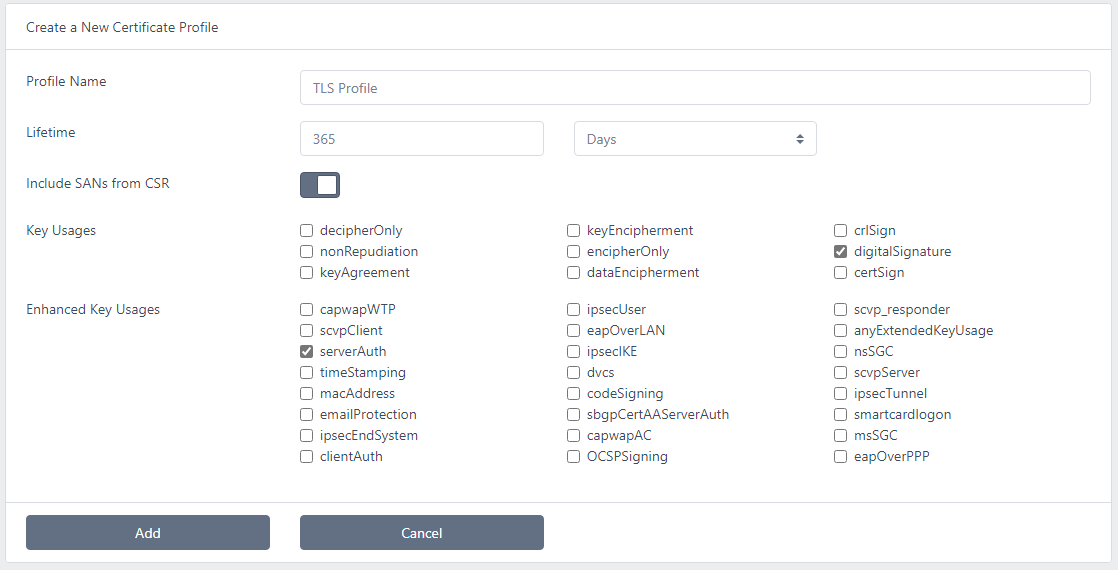
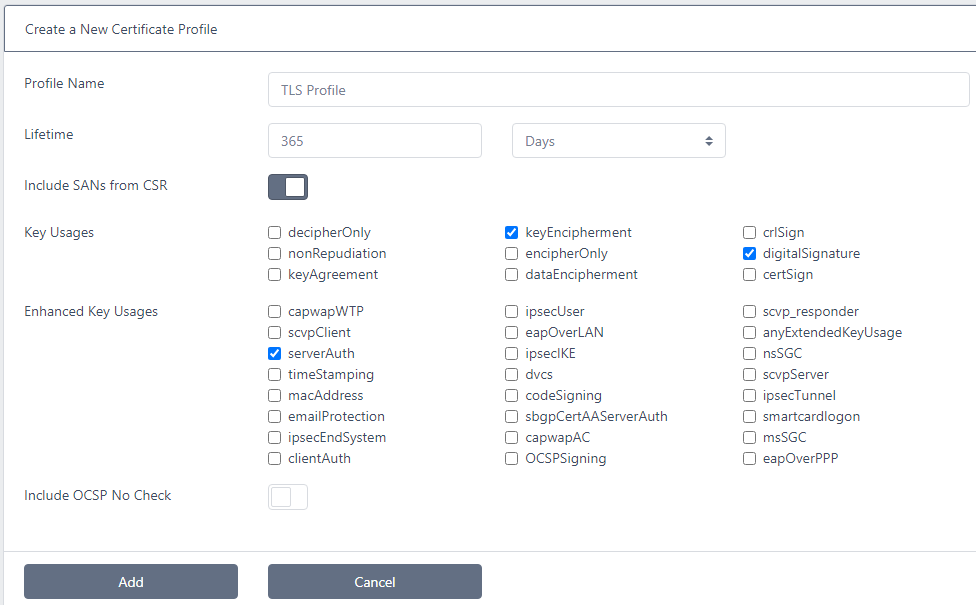
Updated Local CA Issuer

diff --git a/certdog/create_local_certificate_issuer.md b/certdog/create_local_certificate_issuer.md
@@ -8,7 +8,7 @@ nav_order: 6
 
 
 
-A Local Certificate Issuer enables you to issue certificates from an certdog controlled CA
+A Local Certificate Issuer enables you to issue certificates from a certdog controlled CA
 
 A Certificate Issuer combines a CA (Certificate Authority) and Certificate Profile  
 
@@ -17,73 +17,126 @@ A Certificate Issuer combines a CA (Certificate Authority) and Certificate Profi
 ### 1. Create a Local CA Configuration  
    Select **Local CA** > **Configuration** from the menu
 
-<img src=".\images\new_localca_issuer_config.png" alt="image-20210108165700507" style="zoom:67%;" />
+<img src=".\images\new_ms_issuer.png" alt="Certificate Issuers" style="zoom:67%;" />
 
    Click **Add New CA**
 
-<img src=".\images\new_localca_issuer_config2.png" alt="image-20210108165822066" style="zoom:70%;" />
+<img src=".\images\new-local-ca.png" alt="image-20210620112307746" style="zoom: 67%;" />
 
-   Enter details for *CA Name* and *Subject DN*.  Alter the algorithms and key sizes if required.  Click **Create**  
+Complete the following details:  
 
-   
+<u>Main Certificate Authority Details</u>  
+
+* CA Name: Enter a name for this CA
+
+* Type: You can create a Root CA (self-signed) or an Intermediate CA (if a Root CA has been configured). A complete hierarchy of CAs can be configured with no limit to the chain length  
+
+* Issuer: If you select Intermediate CA in the option above, a list of available parent CAs (issuers) will be displayed. Select the CA to be the parent/issuer CA
+
+* Subject DN: Enter the CA Distinguished Name
+
+* Lifetime: Specify the life of this CA. Note that if an Intermediate CA's lifetime is set to exceed that of the issuer, it will be automatically reduced to be equal to the issuers. I.e. you cannot issue an Intermediate CA with a longer life than its parent
+
+* Algorithm: Select RSA or ECDSA as the algorithm used to generate the CA keys
+
+* Key Size: If RSA is selected, set the CA key size
+
+* Curve: If ECDSA is selected, set the name for the elliptic curve
+
+* Hash Algorithm: Set the CA's hash algorithm
+
+Note that once the CA is configured the above options are fixed and cannot then be changed. You may delete and re-issue a CA but you cannot change its lifetime, algorithm etc.   
+
+<u>Extensions</u>  
+
+* CRL Distribution Points: Enter a URL (or list of URLs separated by commas). These locations will be included in the CRL Distribution Points extension of all certificates issued by this CA and relate to where the CRL issued by this CA can be obtained
+* AIA OCSP Locations: Enter a URL (or list of OCSP URLs separated by commas). These locations will be included in the AIA (Authority Information Access) extension of all certificates issued by this CA and relate to where the certificate status can be obtained via OCSP
+* AIA Issuer Cert Locations: Enter a URL (or list of URLs separated by commas). These locations will be included in the AIA (Authority Information Access) extension of all certificates issued by this CA and relate to where the CA certificate can be obtained
+
+All of these options can be edited later  
+
+<u>CRL Generation</u>  
+
+* Generate CRLs: If you want this CA to generate CRLs, enable this option
+
+* CRL Lifetime: This is the lifetime of the CRL i.e. the period between the Effective date and Next update values in the CRL
+
+* CRL Generation Period: This is how often you want the CRL to be generated. It must be less than the CRL Lifetime. For example, if the lifetime were set to 2 days, you may set this to 1 day so there is always a 1 day overlap
+
+* CRL Filename: This is the location the CRL file will be placed when generated
+
+  
+
+Click **Create**   
+
+The Extensions and CRL Generation options can be edited later if required  
+
+  
+
+**Notes on the CRL Filename and CRL Distribution Points**  
+
+A CRL must be available at the location(s) specified in the CRL Distribution points. You must therefore ensure that the CRL generated at the location specified by CRL Filename is either the location the CDP references or is  copied to this location  
+
+One option is to use the certdog web server to host this CRL. To do this perform the following steps:  
+
+1. On the file-system navigate to where certdog is installed e.g. ``c:\certdog``
+
+2. Create a CRL folder within the webapps of the tomcat instance (that hosts certdog). I.e. create the following folder:
+
+   ``c:\certdog\tomcat\webapps\crl``
+
+3. Set the CRL Distribution point to be: ``http://[your URL]/crl/ca.crl`` e.g. ``http://certdog.net/crl/ca.crl``
+
+4. Set the CRL Filename to be: ``c:\certdog\tomcat\webapps\crl\ca.crl``
+
+This will result in the CRL being created at ``c:\certdog\tomcat\webapps\crl\ca.crl`` which will then be available at this URL: ``http://certdog.net/crl/ca.crl``
+
+     
 
 ### 2. Create a Certificate Profile
 
-   Select **Local CA** > **Profiles** from the menu
+   Select **Local CA** > **Profiles** from the menu and click **Add New Profile**
 
-<img src=".\images\new_localca_profiles.png" alt="image-20210108170056632" style="zoom: 67%;" />
+<img src=".\images\new_localca_profiles2.png" alt="image-20210620123244374" style="zoom: 67%;" />
 
-   Click **Add New Profile**
+* And enter details for **Profile Name**
 
-<img src=".\images\new_localca_profiles2.png" alt="image-20210108170237149" style="zoom:67%;" />
+* Select the **lifetime**.  This will be the lifetime of the issued certificate
 
-   And enter details for *Profile Name*  
+* If you wish SANs (Subject Alternative Names) that are provided in the CSR (Certificate Signing Request) to be included in any issued certificates, ensure the **Include SANs from CSR** option is checked  
 
-   Select the lifetime.  This will be the lifetime of the issued certificate
+* Select the **Key Usages** - these will be applied to the issued certificate
 
-   If you wish SANs (Subject Alternative Names) that are provided in the CSR (Certificate Signing Request) to be included in any issued certificates, ensure this option is checked  
+* Select the **Enhanced Key Usages** - these will be applied to the issued certificate  
+* If this is to be an OCSP certificate and you do not wish the status of this certificate to be checked. Set the **Include OCSP No Check** option
 
-   Select the Key Usages - these will be applied to the issued certificate
+See [RFC5280](https://tools.ietf.org/html/rfc5280) for more details on key usages  
 
-   Select the Enhanced Key Usages - these will be applied to the issued certificate  
-
-   See [RFC5280](https://tools.ietf.org/html/rfc5280) for more details on key usages
-
-   Click **Add**  
+Click **Add**  
 
    
 
 ### 3. Create a Certificate Issuer
 
-   Select **Certificate Issuers** from the menu
+Select **Certificate Issuers** from the menu
 
-<img src=".\images\new_localca_issuer.png" alt="image-20210108170849399" style="zoom:67%;" />
+<img src=".\images\new_ms_issuer.png" alt="image-20210108170849399" style="zoom:67%;" />
 
-   Click **Add New Issuer**
+Click **Add New Issuer**
 
 <img src=".\images\new_localca_issuer2.png" alt="image-20210108170947087" style="zoom:67%;" />
 
-   From the drop down select **Local CA** and click **Next**
+From the drop down select **Local CA** and click **Next**
 
-<img src=".\images\new_localca_issuer3.png" alt="image-20210108171200950" style="zoom:67%;" />
+<img src=".\images\new_localca_issuer3.png" alt="image-20210620124010018" style="zoom:67%;" />
 
-   Enter a **Name** and select the **Local Configuration** and **Certificate Profile** as just created from the drop downs  
+Enter a **Name** and select the **Local Configuration** and **Certificate Profile** as just created from the drop downs  
 
-   Click **Add**
+Select the **Team**(s) that will be authorised to use this issuer. Members of these teams will be able to issue and revoke certificates  
 
-
-
-The Certificate Issuer is now ready to issue certificates. However, you must first give the accounts that need to use this issuer the correct permissions
+Click **Add**  
 
 
 
-See [Set User Permissions on a Certificate Issuer](set_permissions_on_cert_issuer.html)
-
-
-
-If you wish to request a certificate by just providing a DN i.e. with certdog generating the CSR on your behalf, then a CSR Generator must be available
-
-
-
-See [Create a CSR Generator](create_csr_generator.html)
+If you wish to request a certificate by just providing a DN i.e. with certdog generating the CSR on your behalf, then a CSR Generator must be available.  See [Create a CSR Generator](create_csr_generator.html)
 
